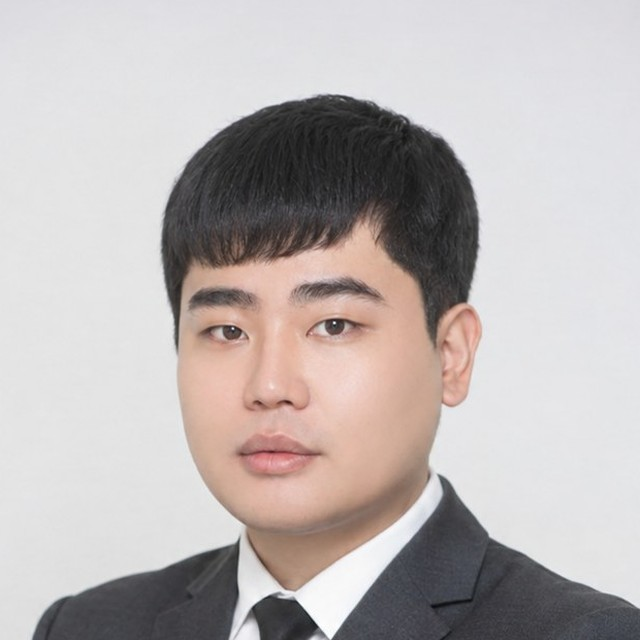
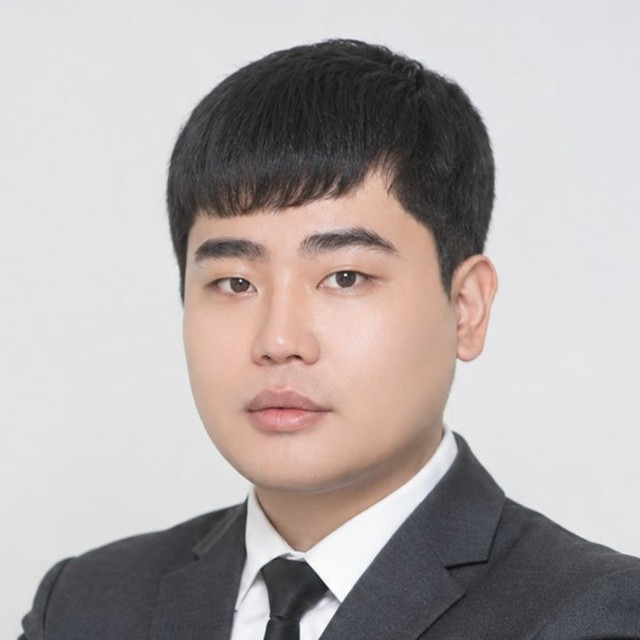
Enlarge hero portrait and recrop About photo

Changed region(s): [[0.0312, 0.0625, 1.0, 1.0], [0.6875, 0.875, 0.75, 0.9375], [0.6562, 0.9375, 0.7188, 1.0]]

diff --git a/assets/css/style.css b/assets/css/style.css
@@ -327,8 +327,8 @@ ol {
   max-width: var(--max);
   margin: 0 auto;
   display: grid;
-  grid-template-columns: minmax(0, 1fr) minmax(250px, 330px);
-  gap: 40px;
+  grid-template-columns: minmax(0, 1fr) minmax(300px, 420px);
+  gap: 48px;
   align-items: end;
   flex: 1;
   align-content: center;
